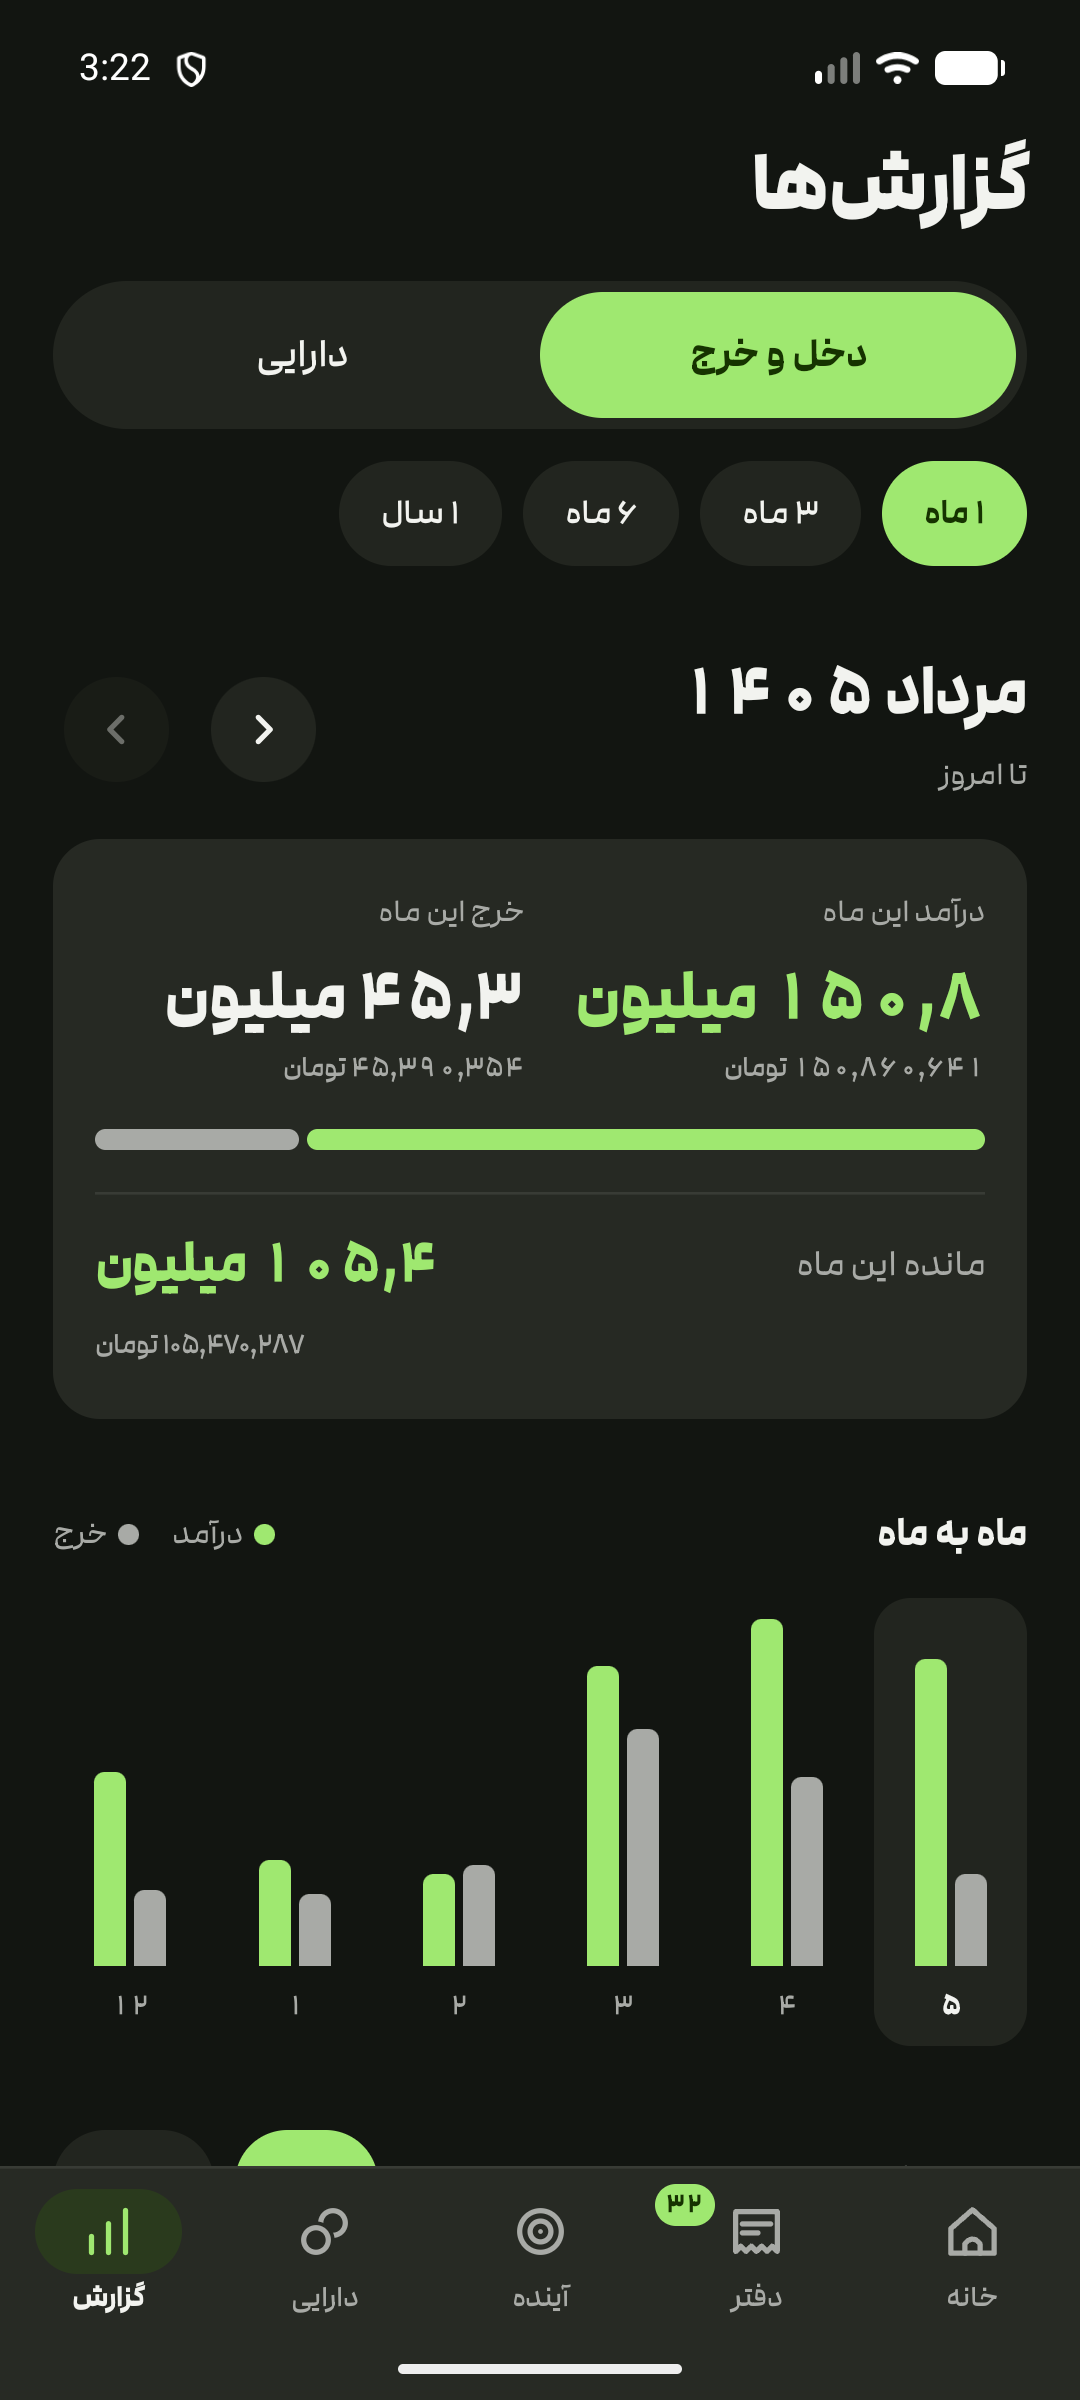
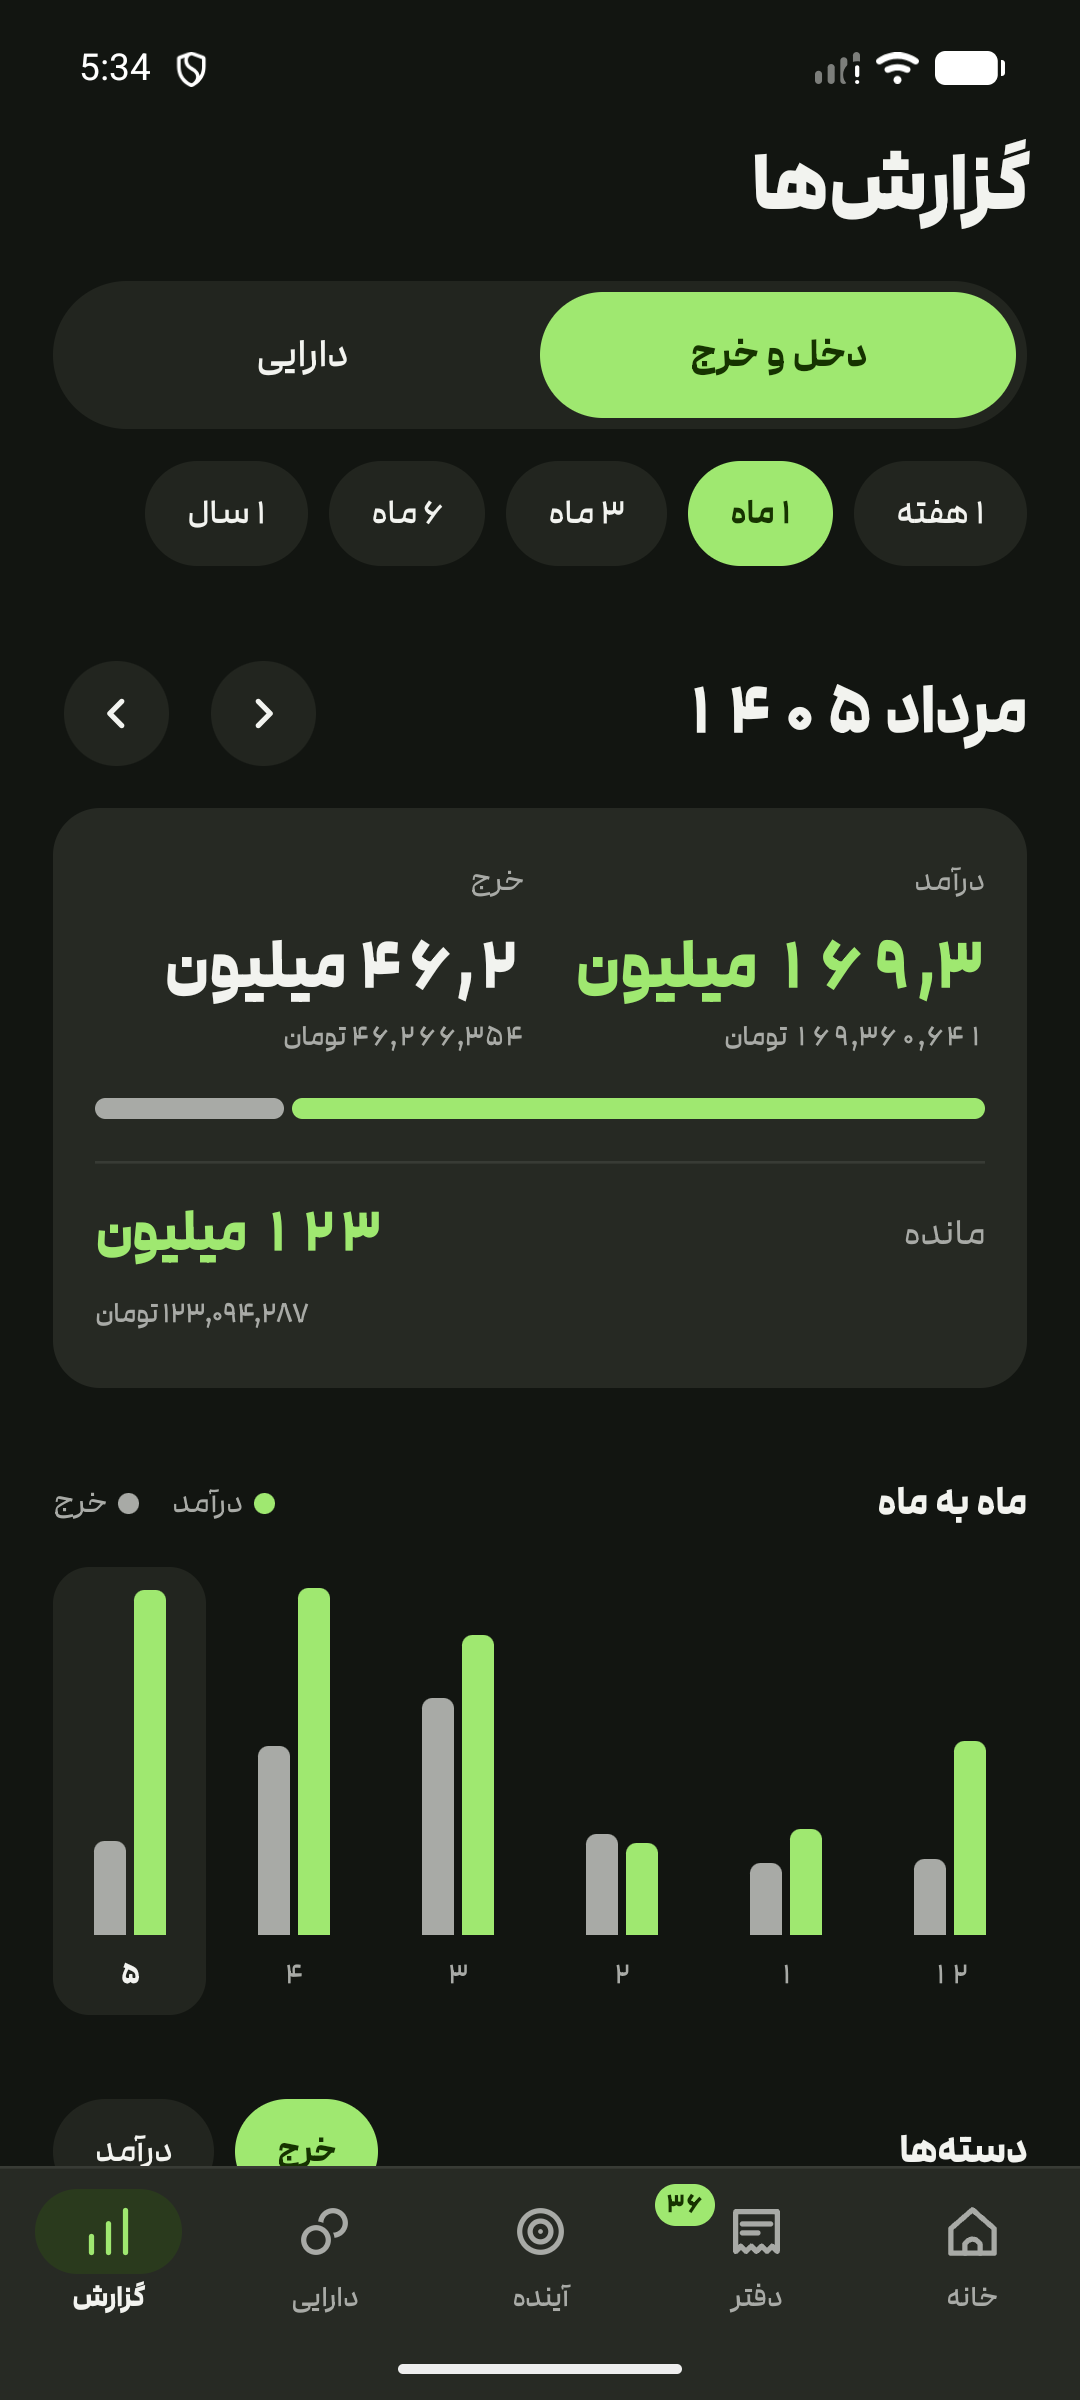
Update the landingpage

diff --git a/worker/public/index.html b/worker/public/index.html
@@ -351,8 +351,9 @@
           <div class="pitch">
             <h2>پیامک بانک، خودش دفتر میشه</h2>
             <p>
-              پیامکهای موجودی همونجا روی گوشی خونده و پارس میشن. نه API بانکی در کاره و نه متن پیامک به سروری میرسه. هر تراکنش دسته میگیره، و هر چی نگرفت با یک مرور
-              سریع خودت جاش رو مشخص میکنی.
+              هر پیامک بانک یک سطر دفتره — خونده و پارسشده، همونجا روی گوشی. نه API
+              بانکی در کاره و نه متن پیامک به سروری میرسه. هر تراکنش خودش دسته میگیره؛
+              هر چی نگرفت، با یک مرور سریع جاش رو خودت مشخص میکنی.
             </p>
             <p class="aside muted">
               بلوبانک، سامان، ملت، ملی، صادرات، پاسارگاد، رسالت، پارسیان و چندتای دیگه.
@@ -439,7 +440,7 @@
               درهم، ۲۵۰ کریپتوی اول بازار، سهام بورس، و خونه و ماشین به قیمتی که خودت میگی.
               نرخ دولتی هیچ جای این اپ نیست.
             </p>
-            <p class="aside muted">آخرین نرخ خوب روی گوشی میمونه. بیاینترنت هم جواب داری.</p>
+            <p class="aside muted">آخرین نرخ خوب روی گوشی میمونه؛ اینترنت که رفت، عددت نمیره.</p>
           </div>
           <figure class="phone">
             <span class="shell">
@@ -459,8 +460,9 @@
           <div class="pitch">
             <h2>بودجه و هدف، بدون بازی</h2>
             <p>
-              برای هر دسته سقف بذار: هفتگی، ماهانه یا فصلی. اپ میگه چقدر رفته، چقدر مونده
-              و تا آخر ماه روزی چقدر جا داری. خبری از امتیاز و زنجیره و مقایسه با بقیه نیست. فقط عددها.
+              تب آینده جای قولهاییست که به خودت میدی: برای هر دسته سقف بذار — هفتگی،
+              ماهانه یا فصلی — و اپ میگه چقدر رفته، چقدر مونده و تا آخر ماه روزی چقدر جا
+              داری. خبری از امتیاز و زنجیره و مقایسه با بقیه نیست. فقط عددها.
             </p>
             <p class="aside muted">
               هشدارها همون روی گوشی ساخته میشن و به هیچ سروری نمیرسن. نه سقف، نه دسته، نه
@@ -474,6 +476,34 @@
                 <img
                   src="/img/budget.webp" loading="lazy"
                   alt="صفحهٔ آینده: بودجهٔ رستوران و کافه در ۹۸ درصد، با جای باقیماندهٔ روزانه"
+                  width="720" height="1600"
+                />
+              </picture>
+            </span>
+          </figure>
+        </section>
+
+        <section class="band">
+          <div class="pitch">
+            <h2>آخر ماه، قصهٔ پولت یک صفحهست</h2>
+            <p>
+              دخل و خرج هر ماه رو یک صفحه میکنه: چی اومد، چی رفت، چی موند — و زیرش،
+              ماهبهماه و دستهبهدسته. هر ماهی رو ورق بزن و پنجره رو از یک هفته تا یک سال
+              باز کن. گزارش دارایی هم راهِ یکسالهٔ جمعت رو میکشه، با همون نرخهایی که
+              خودت دیدی.
+            </p>
+            <p class="aside muted">
+              به هر خرج میتونی جواب بدی: «میارزید؟» — آخر ماه، آرهها و نهها همینجا
+              جمعان.
+            </p>
+          </div>
+          <figure class="phone">
+            <span class="shell">
+              <picture>
+                <source srcset="/img/report-dark.webp" media="(prefers-color-scheme: dark)" />
+                <img
+                  src="/img/report.webp" loading="lazy"
+                  alt="گزارش دخل و خرج مرداد: درآمد ۱۶۹ میلیون، خرج ۴۶، مانده ۱۲۳ میلیون، با نمودار ماهبهماه"
                   width="720" height="1600"
                 />
               </picture>
@@ -519,8 +549,8 @@
             </div>
           </div>
           <p class="aftermath muted">
-            نسخهٔ تازه بهصورت یک خط زیر جمع داراییهات پیدا میشه. برای خبردار شدن بدون باز
-            کردن اپ، ریپو رو به Obtainium اضافه کن. هر دو نسخه روی یک گوشی کنار هم جا میشن.
+            نسخهٔ تازه بهصورت یک خط زیر جمع داراییهات پیدا میشه. هر دو نسخه روی یک گوشی
+            کنار هم جا میشن.
           </p>
         </section>
       </div>
